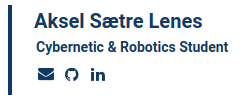
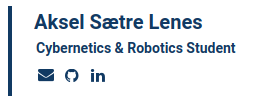
Fix typo in signature-template-v3.html

diff --git a/signature-template-v3.html b/signature-template-v3.html
@@ -1,7 +1,7 @@
 <div style="font-family: 'Roboto', sans-serif;font-weight:bold;color:#073763;">
 	<div style="float:left; border-left:4px solid #073763; padding-left:20px; margin-left:6px;height:90px">
 		<h1 style="font-size: 20px;margin:2px">Aksel Sætre Lenes</h1>
-		<h4 style="font-size: 14px;margin:4px">Cybernetic & Robotics Student</h4>
+		<h4 style="font-size: 14px;margin:4px">Cybernetics & Robotics Student</h4>
 		<ul style="list-style:none;float:left;margin:6px;padding:0px;">
 		  <li style="float:left;margin-right:10px"><a href="mailto:aksel.lenes@gmail.com"><img src="https://raw.githubusercontent.com/aksell/email-signature/master/envelope.png" alt="E-mail" /></a></li>
 			<li style="float:left;margin-right:10px"><a href="https://github.com/aksell"><img src="https://raw.githubusercontent.com/aksell/email-signature/master/github.png" alt="GitHub" /></a></li>
